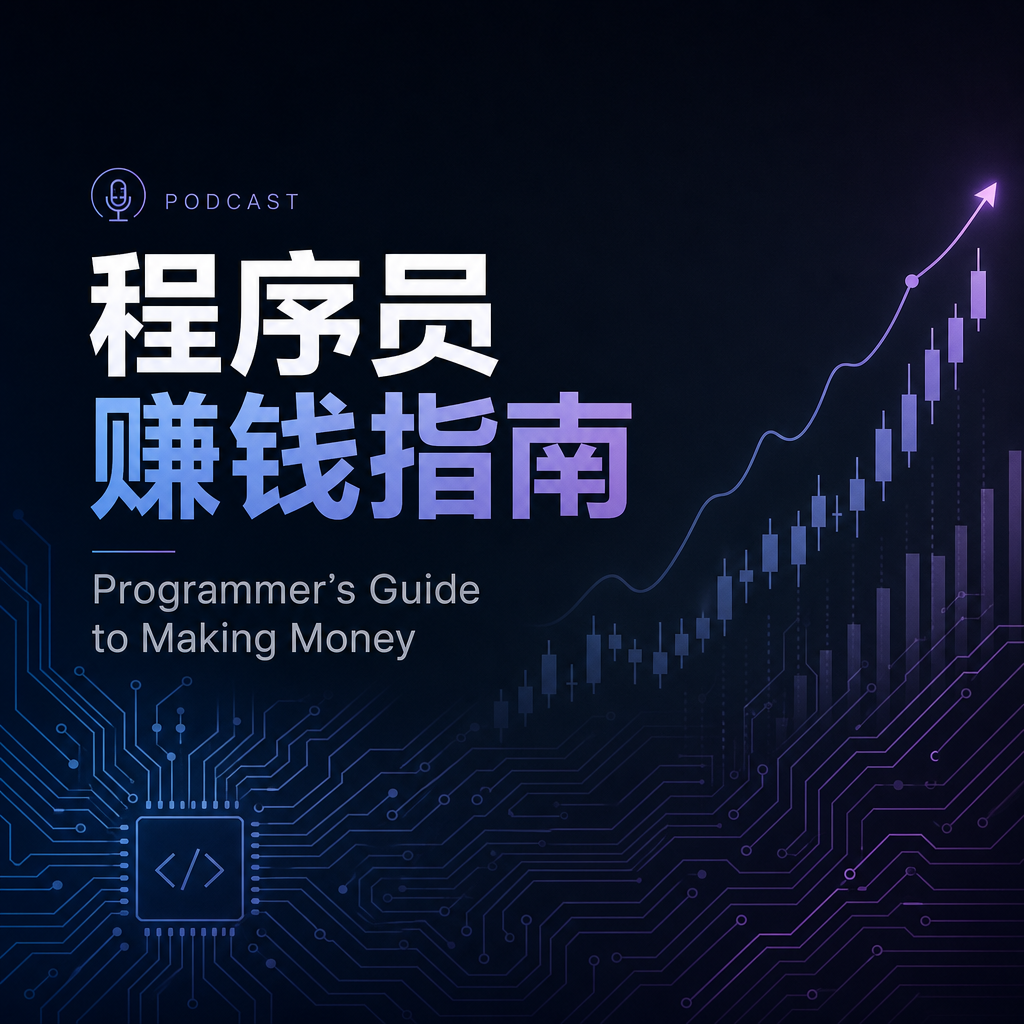
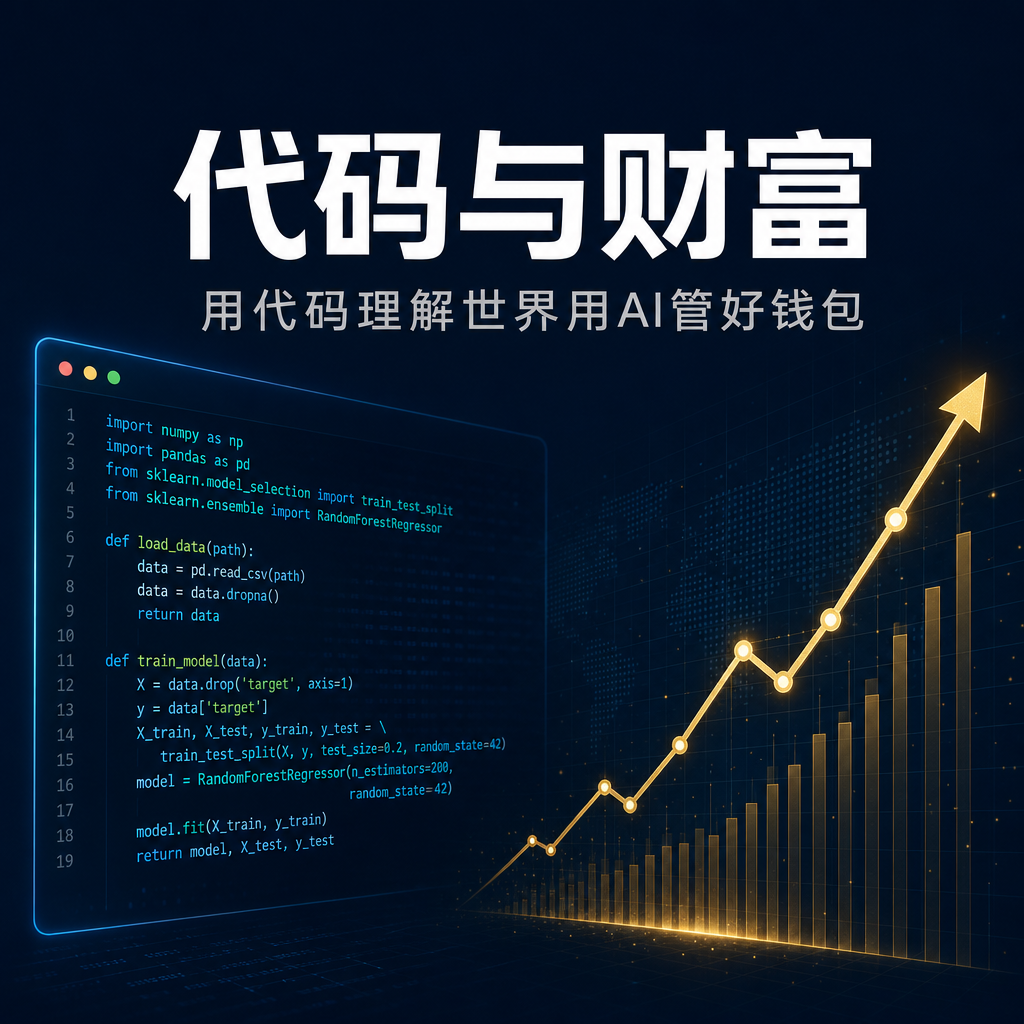
update: 代码与财富 - 新定位、新封面、新描述

Changed region(s): [[0.0, 0.125, 1.0, 0.9688], [0.7812, 0.375, 0.8125, 0.4062], [0.75, 0.4062, 0.7812, 0.4375]]

diff --git a/index.html b/index.html
@@ -3,7 +3,7 @@
 <head>
   <meta charset="UTF-8">
   <meta name="viewport" content="width=device-width, initial-scale=1.0">
-  <title>程序员赚钱指南 — AI × 投资 播客</title>
+  <title>代码与财富 — AI × 投资 播客</title>
   <style>
     * { margin: 0; padding: 0; box-sizing: border-box; }
     body { font-family: -apple-system, BlinkMacSystemFont, "Segoe UI", Roboto, sans-serif; background: #0a0a0a; color: #e0e0e0; line-height: 1.6; }
@@ -27,7 +27,7 @@
 <body>
   <div class="container">
     <header>
-      <h1>程序员赚钱指南</h1>
+      <h1>代码与财富</h1>
       <p class="tagline">AI × 投资 | 每天 5-8 分钟 | 有观点不念稿</p>
       <div class="subscribe">
         <a href="https://lzwmt.github.io/ai-podcast-rss/feed.xml">📡 RSS 订阅</a>